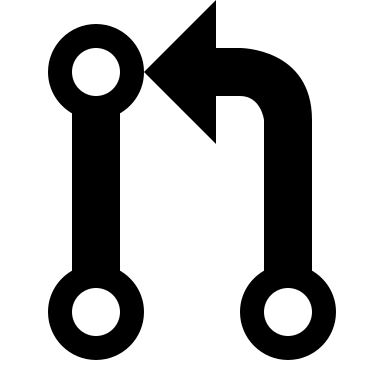
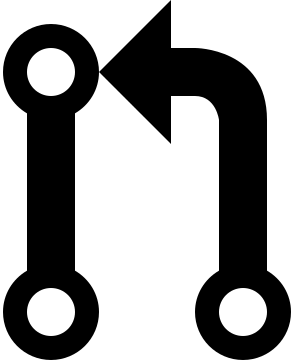
Add dark mode support for the PRLink component
- invert the PR image color in dark mode
- use a regular image instead of a background
- inherit the current link color instead of forcing it

diff --git a/src/css/custom.css b/src/css/custom.css
@@ -21,12 +21,20 @@
 }
 
 .pull_request {
-  background: url('/static/img/pr.png') center left/1em no-repeat;
   display: inline-block;
-  padding-left: 1.1em;
+}
+
+.pull_request img {
+  height: 1em;
+  width: auto;
+  vertical-align: -0.11em;
+}
+
+[data-theme='dark'] .pull_request img {
+  filter: invert();
 }
 
 h2 a.pull_request {
-  color: #000;
+  color: inherit;
   font-size: 90%;
 }

diff --git a/src/theme/PRLink.js b/src/theme/PRLink.js
@@ -4,7 +4,8 @@ import PRIcon from '@site/static/img/pr.png';
 export default function PRLink(props) {
   return (
     <a class="pull_request" href={ `https://github.com/solidusio/solidus/pull/${ props.number }` }>
-      { props.description }
+      <img src={require('/static/img/pr.png').default}/>
+      { " " + props.description }
     </a>
   );
 };
